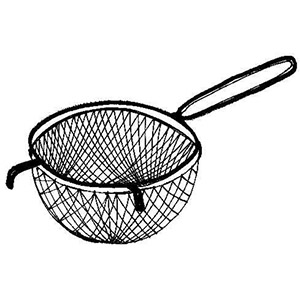
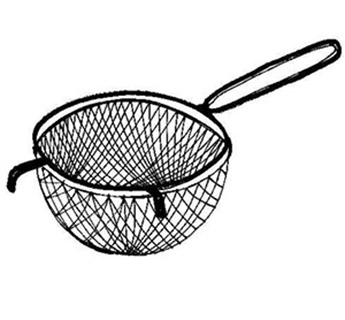
Pngs smaller and fits mobile viewports

Changed region(s): [[0.0, 0.12, 1.0, 0.84]]

diff --git a/main.css b/main.css
@@ -111,8 +111,8 @@ code {
 }
 #gallery .box {
 	border: 5px solid #888;
-	height:300px;
-	width:300px;
+	height:320px;
+	width:345px;
 	margin:5px;
 	position: relative;
 	float:left;
@@ -121,8 +121,8 @@ code {
 #gallery .box .caption {
 	background: rgba(0,0,0,0.8);
 	position: absolute;
-	width:270px;
-	height:270px;
+	width:320px;
+	height:290px;
 	color: #fff;
 	z-index: 100;
 	text-align: left;

diff --git a/index.md b/index.md
@@ -12,7 +12,7 @@ where I present my <a href="principles.html">conception</a> of good design and s
 <div id="gallery">
 
 <a href="projects/namegame/"><div class="box">
-<img src="projects/namegame.png"/>
+<img src="projects/namegame.jpg"/>
 <span class="caption">
 <h1>Name Game</h1>
 Gives you usernames and quizzes you on real names using string processing in C <br><br><br>
@@ -21,7 +21,7 @@ Jan 2014
 </div></a>
 
 <a href="evaluations/skulecourses/"><div class="box">
-<img src="evaluations/skulecourses.png"/>
+<img src="evaluations/skulecourses.jpg"/>
 <span class="caption">
 <h1>Skule Security Sillyness</h1>
 Exploration of skule.ca/courses/ security, code injection, and JS pranks <br><br><br>
@@ -30,7 +30,7 @@ Dec 2013
 </div></a>
 
 <a href="projects/portfolio/"><div class="box">
-<img src="projects/portfolio.png"/>
+<img src="projects/portfolio.jpg"/>
 <span class="caption">
 <h1>Engineering Design Portfolio</h1>
 The making of this portfolio <br><br><br>
@@ -39,7 +39,7 @@ Nov 2013 - present
 </div></a>
 
 <a href="projects/binder/"><div class="box">
-<img src="projects/binder.png"/>
+<img src="projects/binder.jpg"/>
 <span class="caption">
 <h1>Binder Misalignment</h1>
 Redesign of binder shields into a spring that offers a more convenient method of opening the rings <br><br><br>

diff --git a/projects/projects.md b/projects/projects.md
@@ -9,7 +9,7 @@ group: projects
 <div id="gallery">
 
 <a href="namegame/"><div class="box">
-<img src="namegame.png"/>
+<img src="namegame.jpg"/>
 <span class="caption">
 <h1>Name Game</h1>
 Gives you usernames and quizzes you on real names using string processing in C <br><br><br>
@@ -18,7 +18,7 @@ Jan 2014
 </div></a>
 
 <a href="portfolio/"><div class="box">
-<img src="portfolio.png"/>
+<img src="portfolio.jpg"/>
 <span class="caption">
 <h1>Engineering Design Portfolio</h1>
 The making of this portfolio <br><br><br>
@@ -27,7 +27,7 @@ Nov 2013 - present
 </div></a>
 
 <a href="binder/"><div class="box">
-<img src="binder.png"/>
+<img src="binder.jpg"/>
 <span class="caption">
 <h1>Binder Misalignment</h1>
 Redesign of binder shields into a spring that offers a more convenient method of opening the rings <br><br><br>
@@ -45,7 +45,7 @@ Nov 2013
 </div></a>
 
 <a href="bridgedesign/"><div class="box">
-<img src="bridgedesign.png"/>
+<img src="bridgedesign.jpg"/>
 <span class="caption">
 <h1>Truss Bridge Design</h1>
 Bridge analysis, optimization, and drawing using python <br><br><br>

diff --git a/projects/namegame/namegame.md b/projects/namegame/namegame.md
@@ -22,6 +22,15 @@ The game requires a Unix based user list and quizzes you on the user's real name
 <p>Quite simple in concept, but strangely addicting...</p>
 </div>
 
+<a name="robust"> </a>
+## Design for Robustness
+------------------------
+The code was designed with the objective of making it usable by as many people as possible.  
+
+- Anyone with a user list and C compiler (most Unix-based OSes) can compile and play the game
+- Program filters by groups to only question you on relevant people
+- Users can guess any part of the name and any capitalization on the first character
+
 <a name="making"> </a>
 ## Making Process 
 ------------------------

diff --git a/projects/portfolio/portfolio.md b/projects/portfolio/portfolio.md
@@ -170,7 +170,8 @@ Some features improve the security, and others are for user appeal.
 <p>Attention grabbing gallery</p>
 </div>
 
-Presenting visuals first, especially interactive ones, highly engage readers.
+Presenting visuals first, especially interactive ones, highly engages readers.  
+Compressing pngs with pngcrush greatly reduces their size and load time (10-80% reduction).  
 <div class="frames">
 <img src="process_visual.png">
 <p>Visual and interactive flowchart for my process page</p>

diff --git a/evaluations/eval.md b/evaluations/eval.md
@@ -9,7 +9,7 @@ group: evaluations
 <div id="gallery">
 
 <a href="skulecourses/"><div class="box">
-<img src="skulecourses.png"/>
+<img src="skulecourses.jpg"/>
 <span class="caption">
 <h1>Skule Security Sillyness</h1>
 Exploration of skule.ca/courses/ security, code injection, and JS pranks <br><br><br>
